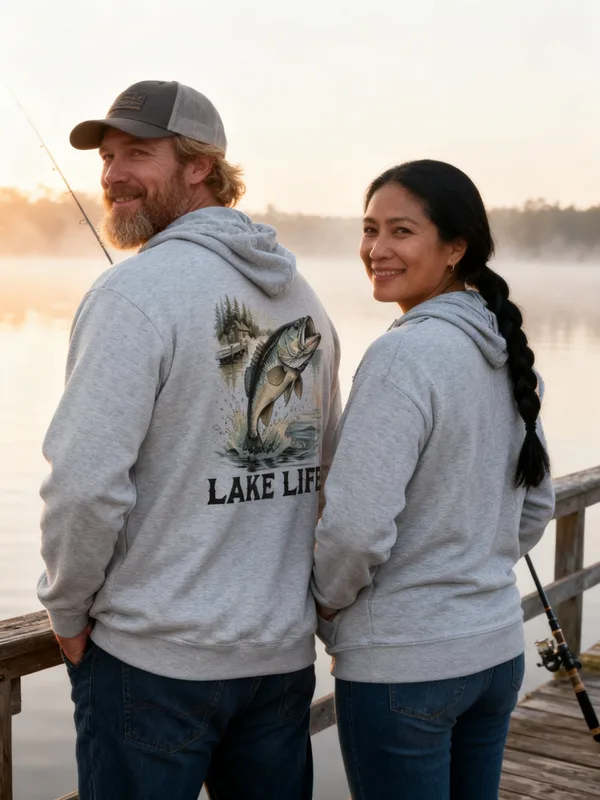
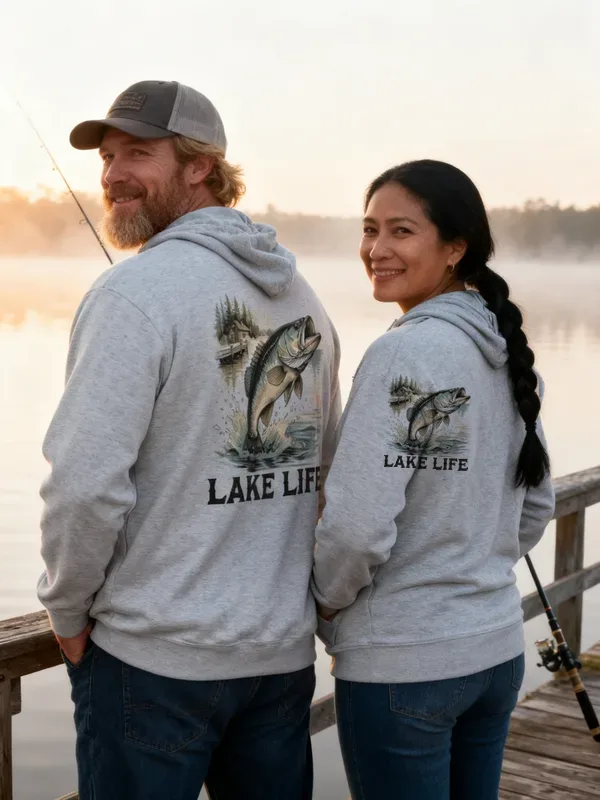
[B] review 354 Lake Life zip hoodie redo (composite cover, Carolina Blue, FAQ)

Changed region(s): [[0.63, 0.4688, 0.78, 0.5938]]

diff --git a/docs/pipeline/354-fishing-zip-hoodie-lake-life.md b/docs/pipeline/354-fishing-zip-hoodie-lake-life.md
@@ -1,4 +1,4 @@
-status: REDO
+status: REVIEW
 cover: fal
 lane: B
 type: twin
@@ -34,3 +34,4 @@ kd: 42
   2. R7.2 (still open from the 06:13 REDO): swap Sport Grey for Carolina Blue as you proposed (Ash + Carolina Blue; black LAKE LIFE reads on both). New variants, Printful sync for the new variants only, Carolina Blue front + back mockups, variant images pointed at them, then remove the Sport Grey variants. Run the audit.
   3. Copy check while you are in it: the 'outdoor hoodie' primary must sit in the first sentence with the joke/occasion (R9.11).
   Approved and kept: zip placement (art on the back, small left-chest front), the cover scene and the man's print.
+- 2026-10-17 22:08 UTC builder [B]: REDO 1-3 done. (1) Cover: composited the LAKE LIFE print onto her back (Printful art file, 84 px wide, 3 deg rotation, multiply blend, braid restored on top as a dark-pixel layer, scaled to her narrower turned back); both backs now read LAKE LIFE; man, scene and garments unchanged. (2) Colors: Sport Grey swapped for Carolina Blue: 6 new variants (S-3XL, SKUs 17336-17346), Printful sync 12/12 (pf-zip, BW 1650 BT 225 CW 525), Carolina Blue front mockup attached to its variants, Sport Grey variants and photo removed; Ash back mockup kept as the one back. Variant audit clean, design crops regenerated. (3) Copy: outdoor hoodie sits in sentence one; FAQs now 4 x 49-53 words; colors and sizes line updated (S-3XL). Fal spend $0.

diff --git a/docs/intake-log.md b/docs/intake-log.md
@@ -1,4 +1,5 @@
 RUNNING lane B since 2026-10-17 21:59 UTC
+2026-10-17 22:08 UTC — [B] REVIEW #354 Lake Life zip hoodie redo (cover composite, Ash + Carolina Blue, copy).
 2026-10-17 22:02 UTC — [B] REVIEW #435 cover redo (hair still over the M; flagged to director).
 2026-10-17 22:01 UTC — [B] Price fixes: compare-at removed (products created after 2026-10-15) on 8 camo products: ducks-in-a-row, doe-not-disturb, i-saw-you-move, antler-envy, camp-security-bear, possum-playing-dead hoodies; call-me-after-duck-season, here-for-the-sunrise sweatshirts. Prices unchanged.
 2026-10-17 22:08 UTC — [C] REVIEW #368 Lucky Horseshoe Ranch heavyweight hoodie (DRAFT, synced 14/14, fal cover with caveats: woman in a tee, drawcord over man's print).
